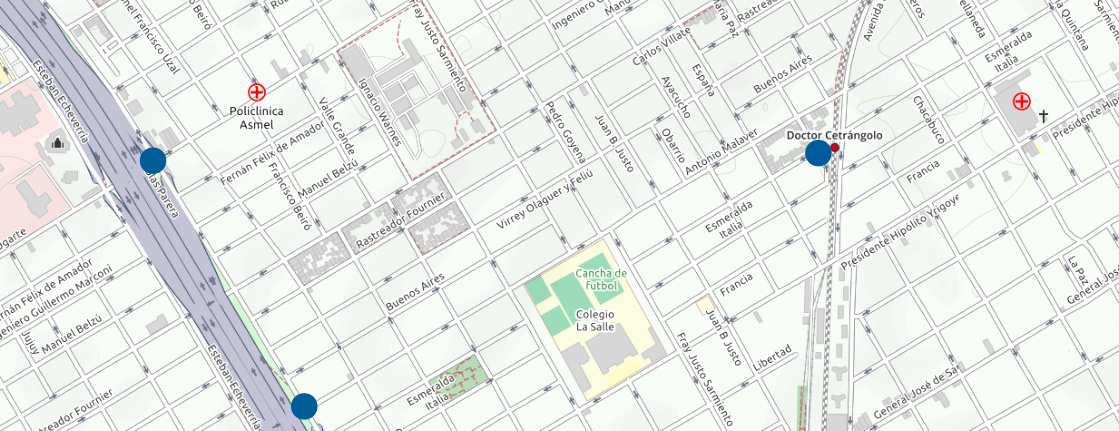
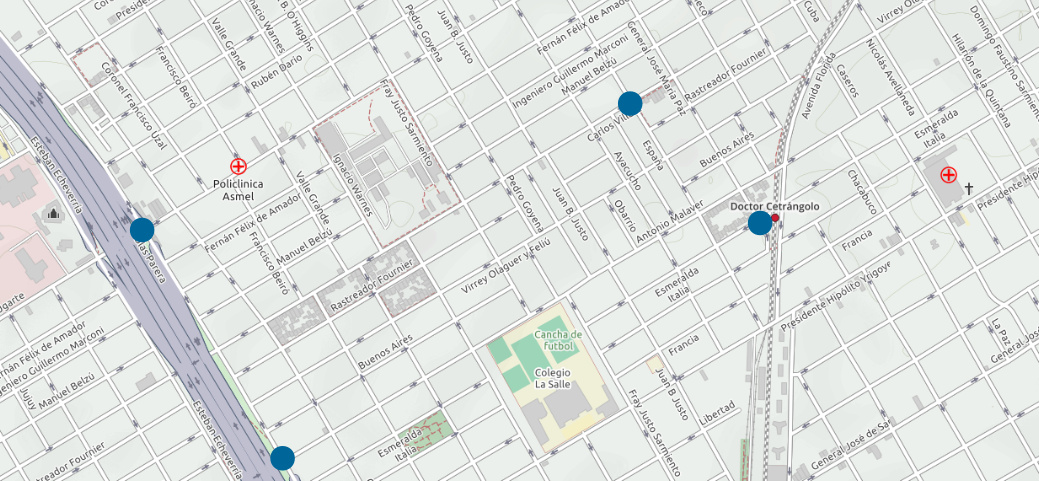
Replace transit centers map

diff --git a/Paper.rst b/Paper.rst
@@ -743,7 +743,7 @@ Creating transit centers with shops, services and monitored bicycle parkings cou
 
 Monitored bicycle would allow people to take the bicycle to transit, and park it safe.
 
-.. figure:: maps/olivos-roche-monitored-bicycle-parkings-map.jpg
+.. figure:: maps/transit-centers-map.jpg
    :width: 75%
 
    Recommended places for transit centers with monitored bicycle parkings: Dr. Cetrangolo train station, the Panamericana bus and express bus stops Gobernador Manuel Ugarte and Antonio Malaver and Carlos Villate St. / España St. (bus hotspot) (OSM2019_, 2019, `-34.5228, -58.5008 <https://www.openstreetmap.org/#map=16/-34.5228/-58.5008&layers=C>`_)
